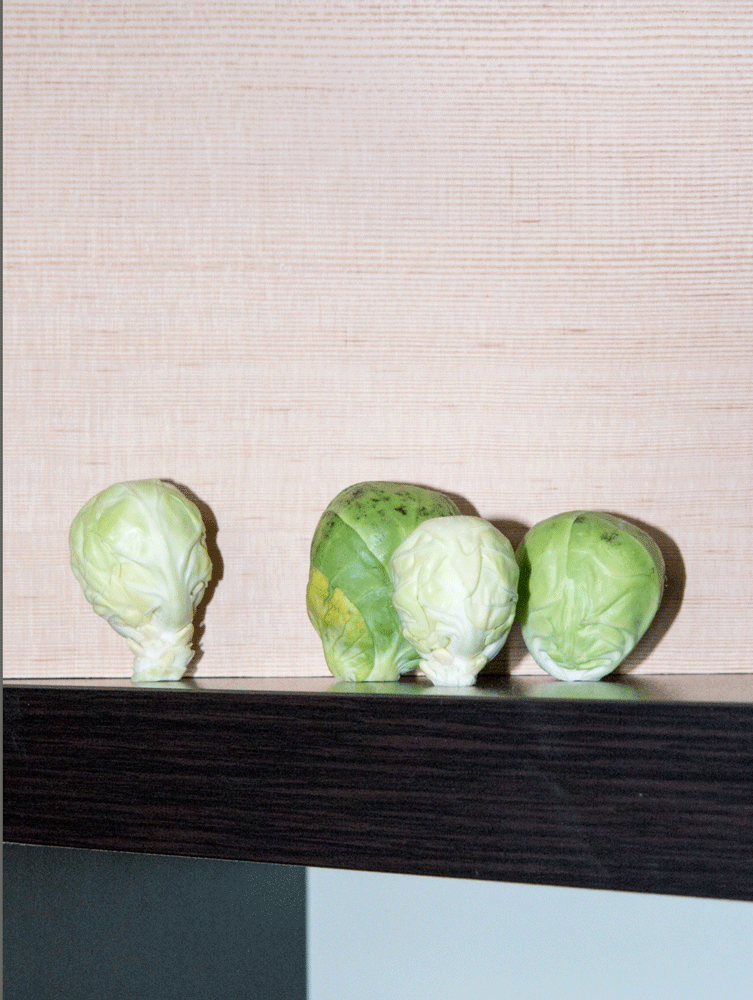
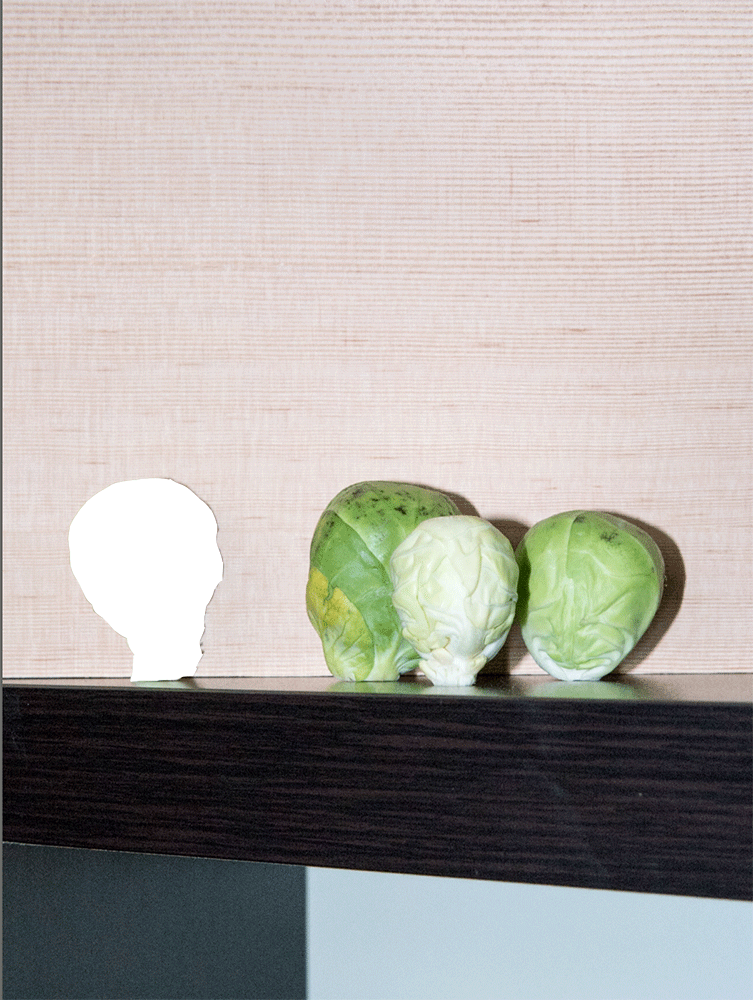
add brussel sprouts screen

diff --git a/app/index.html b/app/index.html
@@ -191,6 +191,22 @@
       </div>
     </div>
 
+    <a id="brussel-sprouts"></a>
+    <div id="trigger-brussel-sprouts-img" class="screen screen-brussel-sprouts">
+      <div id="target-brussel-sprouts-img" class="brussel-sprouts-img">
+        <img src="images/brussel-sprouts.png">
+      </div>
+      <div id="trigger-brussel-sprouts-cutout" class="brussel-sprouts-cutout">
+        <img id="target-brussel-sprouts-cutout" src="images/brussel-sprouts-cutout.png">
+      </div>
+      <div id="trigger-brussel-sprouts-text" class="brussel-sprouts-text-position">
+        <div id="target-brussel-sprouts-text" class="brussel-sprouts-text">
+          <h1>BRUSSEL SPROUTS</h1>
+          Plant the seeds about 2 cm deep in small pots and keep them indoor. Plant out as soon as the seedling growth four leaves. The plants should have a distance of 40 cm between each other. The growing spot should receive a lot of sun. Keep the soil moist but don’t overwater. As a growth support tie the stem to a stake. Pinch off lateral shoots early on. Remove the main shoot around the middle of September. Fertilize from time to time.
+        </div>
+      </div>
+    </div>
+
 
     <!-- build:js(.) scripts/vendor.js -->
     <!-- bower:js -->

diff --git a/app/styles/vegetable-screens.scss b/app/styles/vegetable-screens.scss
@@ -186,7 +186,7 @@
 }
 
 .screen-chard {
-  height: 200vh;
+  height: 230vh;
   z-index: -10;
 }
 
@@ -213,4 +213,36 @@
 
 .chard-text h1 {
   margin: 0;
+}
+
+.screen-brussel-sprouts {
+  display: flex;
+  align-items: center;
+  height: 250vh;
+  z-index: -10;
+}
+
+.brussel-sprouts-img {
+  position: absolute;
+  left: 60vw;
+  top: 0;
+  // z-index: 20;
+  img { width: 30vw; }
+}
+
+.brussel-sprouts-cutout {
+  position: absolute;
+  left: 60vw;
+  top: 0;
+  // z-index: 10;
+  img { width: 30vw; }
+}
+
+.brussel-sprouts-text-position {
+  position: absolute;
+  width: 30vw;
+  top: 40vh;
+  left: 20vw;
+  text-align: right;
+  font-size: 12px;
 }

diff --git a/app/scripts/services/scrolling.js b/app/scripts/services/scrolling.js
@@ -113,7 +113,7 @@
         .setClassToggle("#side-bar-carrot", "active")
         .addTo(scrollingController);
 
-      var chardImg = new ScrollMagic.Scene({triggerElement: "#trigger-chard-img", duration: 1.4 * $(window).height()})
+      var chardImg = new ScrollMagic.Scene({triggerElement: "#trigger-chard-img", duration: 1.3 * $(window).height()})
         .triggerHook(0)
         .setPin("#target-chard-img", {pushFollowers: false})
         .setClassToggle("#side-bar-chard", "active")
